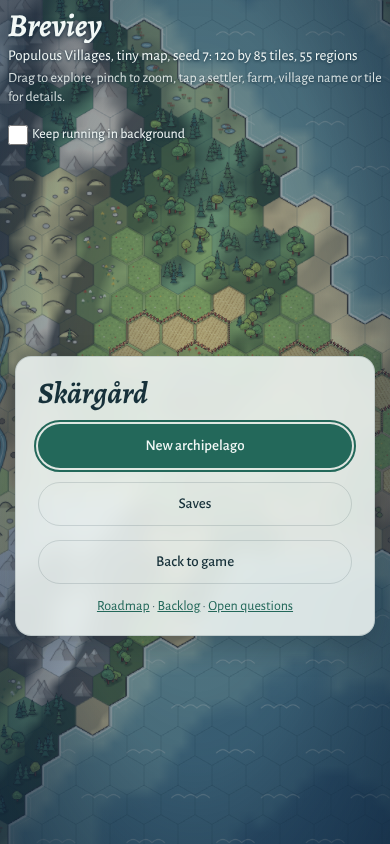
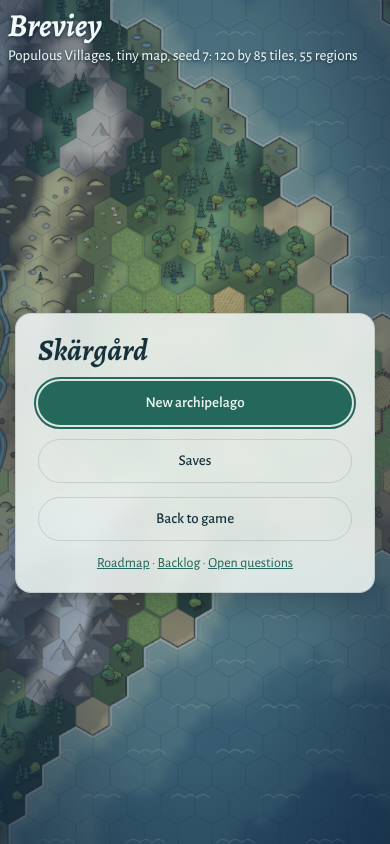
VB-324: no controls hint and no Keep running in background (for now); the task done
- The main menu's game info is the name and the map line only.
- page/speed keeps the background run behind keepRunning, off, with no control; the run pauses on blur and when hidden, as by default.
- tests/speed.js sets the flag; tests/browser-speed.js keeps the pause on blur and the resume on focus. Main menu screenshots retaken.

Claude-Session: https://claude.ai/code/session_01UXXp2ZG5DNGF4P7VZa17MU

diff --git a/index.html b/index.html
@@ -79,8 +79,6 @@ body {
 .clock .icon-btn { width: 44px; height: 44px; flex: none; }
 .ico { display: block; flex: none; }
 .ui-toggle, .ui-toggle[aria-pressed] { color: var(--ink); }
-.background-run { flex-basis: 100%; display: flex; align-items: center; gap: 6px; color: var(--muted); font-size: 13px; cursor: pointer; }
-.background-run input { margin: 0; accent-color: var(--accent); }
 #skipBtn { padding: 5px 10px; font-size: 14px; }
 #skipBtn[aria-pressed="true"], .speed button[aria-pressed="true"] { background: var(--accent); color: var(--on-accent); border-color: transparent; }
 .settlers { margin-top: 12px; max-height: min(50vh, 440px); overflow-y: auto; border-top: 1px solid var(--edge); padding: 2px 4px 0 0; }
@@ -188,7 +186,7 @@ body:has(.genscreen:not([hidden])) .lod, body:has(.genscreen:not([hidden])) .toa
 body:has(.genscreen:not([hidden])) #menuBtn, body:has(.genscreen:not([hidden])) #uiToggle { visibility: hidden; pointer-events: none; }
 .genscreen[hidden] { display: none; }
 /* the open game's name, at the main menu's top left (VB-324); it is not shown in play */
-/* The open game at the main menu's top left (VB-324): its name, its map, the controls and the background run; none of it is shown in play.
+/* The open game at the main menu's top left (VB-324): its name and its map; neither is shown in play.
    On a narrow screen it stands above the menu's card. */
 .game-info { position: absolute; top: max(14px, env(safe-area-inset-top, 0px)); left: max(18px, env(safe-area-inset-left, 0px));
   width: min(360px, calc(50% - 210px)); color: #f2f8f6; text-shadow: 0 1px 3px #102b3b; }
@@ -196,8 +194,6 @@ body:has(.genscreen:not([hidden])) #menuBtn, body:has(.genscreen:not([hidden])) 
 .game-name { overflow: hidden; text-overflow: ellipsis; white-space: nowrap; font: italic 700 32px/1.1 'Alegreya', Georgia, serif;
   text-shadow: 0 1px 4px #102b3b; }
 .game-info .meta { font-size: 15px; }
-.game-info .hint { font-size: 14px; line-height: 1.35; opacity: 0.85; }
-.game-info .background-run { display: flex; color: inherit; margin: 6px 0 0; } /* over the menu screens' grid of label and field */
 @media (max-width: 760px) {
   #landing:has(.game-info:not([hidden])) { grid-template-rows: auto 1fr; }
   .game-info { position: static; width: auto; justify-self: stretch; }
@@ -248,8 +244,7 @@ summary:focus-visible { outline: 2px solid var(--accent); outline-offset: 2px; }
 input, select { font: inherit; color: var(--ink); }
 .hud.top { justify-content: flex-end; }
 .menu-label { font-size: 12px; text-transform: uppercase; letter-spacing: .09em; color: var(--muted); margin: 14px 0 6px; }
-.background-run { margin: 8px 0 12px; min-height: 44px; font-size: 14px; }
-.background-run input, .dchk input { width: 20px; height: 20px; flex-shrink: 0; }
+.dchk input { width: 20px; height: 20px; flex-shrink: 0; }
 .clock { max-width: 700px; } /* one row with Skip and Main menu (VB-324) */
 .navigation { position: fixed; z-index: 7; left: 50%; transform: translateX(-50%); bottom: var(--dock-bottom); display: flex; gap: 4px;
   padding: 5px; border-radius: 18px; }
@@ -432,7 +427,6 @@ button.name { display: inline; min-height: 0; padding: 0; border: 0; border-radi
 @media (min-width: 1025px) {
   .mobile-only { display: none !important; } /* over a display a later rule gives, such as .icon-btn's */
   .menu-label { margin: 10px 0 5px; }
-  .background-run { min-height: 30px; margin: 4px 0 8px; }
 }
 .household-block > summary .summary-meta, .village-block > summary .summary-meta { margin-left: 52px; }
 @media (hover: hover) and (pointer: fine) {
@@ -643,8 +637,6 @@ button.name { display: inline; min-height: 0; padding: 0; border: 0; border-radi
   <div class="game-info" id="gameInfo" hidden>
     <p class="game-name" id="name"></p>
     <p class="meta" id="meta"></p>
-    <p class="hint" id="hint"></p>
-    <label class="background-run"><input id="backgroundRun" type="checkbox"> Keep running in background</label>
   </div>
   <div class="panel landing">
     <h1>Skärgård</h1>
@@ -11825,8 +11817,6 @@ if (typeof module !== 'undefined') module.exports = Sim;
   const frame = () => new Promise((r) => requestAnimationFrame(() => r()));
   const makeCanvas = (w, h) => { const c = document.createElement('canvas'); c.width = w; c.height = h; return c; };
 
-  $('hint').textContent = coarse ? 'Drag to explore, pinch to zoom, tap a settler, farm, village name or tile for details.' :
-    'Drag to explore, scroll to zoom. Point for a glance, click to keep it open. Keys: P people, T family, C customs, F centre, Space pause, Esc main menu.';
 
   function failed(msg) {
     const p = $('loadText'); p.textContent = msg; p.classList.add('err');
@@ -13827,7 +13817,9 @@ if (typeof module !== 'undefined') module.exports = Sim;
   }
   const SIM_BUDGET_MS = 12, SIM_SLICE_HOURS = 0.1;
   const uncappedButton = document.querySelector('[data-speed="Infinity"]');
-  const backgroundRun = $('backgroundRun');
+  // Keep running in background (VB-084) is off and has no control for now (11 Nov, VB-324); a control would set keepRunning and call
+  // syncBackgroundRun. While it is off, the run pauses when the page is hidden or the window loses focus.
+  let keepRunning = false;
   let windowFocused = document.hasFocus(), backgroundTimer = null, backgroundAt = 0;
   let speedSampleAt = 0, speedSampleHours = 0;
   // A skip to the next event (VB-234, page/play): where it began (Sim.skipFrom), or null; page state, never saved.
@@ -13904,7 +13896,7 @@ if (typeof module !== 'undefined') module.exports = Sim;
   function syncBackgroundRun() {
     if (backgroundTimer !== null) { clearInterval(backgroundTimer); backgroundTimer = null; }
     resetSpeedSample();
-    if (!simulationAway() || !backgroundRun.checked) return;
+    if (!simulationAway() || !keepRunning) return;
     backgroundAt = performance.now();
     // Browsers may throttle hidden timers. Advance only a bounded interval, never a backlog on return.
     backgroundTimer = setInterval(() => {
@@ -13914,7 +13906,6 @@ if (typeof module !== 'undefined') module.exports = Sim;
       if (st) updateClock();
     }, 100);
   }
-  backgroundRun.addEventListener('change', syncBackgroundRun);
   document.addEventListener('visibilitychange', syncBackgroundRun);
   window.addEventListener('focus', () => { windowFocused = true; syncBackgroundRun(); });
   window.addEventListener('blur', () => { windowFocused = false; syncBackgroundRun(); });
@@ -15672,7 +15663,7 @@ if (typeof module !== 'undefined') module.exports = Sim;
   // A page save is {build, savedAt, label, save: Sim.save(st)}, as gzipped JSON. An archipelago (scenario, seed and size) has four slots:
   // `auto`, written when the page is hidden, and 1 to 3, written by hand; a slot is overwritten in place and no older save is kept.
   // The database keeps each slot's line (`saves`) apart from its bytes (`blobs`), so a list never reads the bytes.
-  const BUILD = '775e74bf8a', SAVE_SLOTS = ['auto', '1', '2', '3'];
+  const BUILD = '0a38873989', SAVE_SLOTS = ['auto', '1', '2', '3'];
   const archOf = (s) => `${s.scenario}-${s.w.seed}-${s.w.COLS}x${s.w.ROWS}`;
   const sizeKey = (cols, rows) => Object.keys(SIZES).find((k) => SIZES[k][0] === cols && SIZES[k][1] === rows);
   const SIZE_NAMES = { t: 'tiny', s: 'small', m: 'medium', l: 'large' };

diff --git a/src/head.html b/src/head.html
@@ -79,8 +79,6 @@ body {
 .clock .icon-btn { width: 44px; height: 44px; flex: none; }
 .ico { display: block; flex: none; }
 .ui-toggle, .ui-toggle[aria-pressed] { color: var(--ink); }
-.background-run { flex-basis: 100%; display: flex; align-items: center; gap: 6px; color: var(--muted); font-size: 13px; cursor: pointer; }
-.background-run input { margin: 0; accent-color: var(--accent); }
 #skipBtn { padding: 5px 10px; font-size: 14px; }
 #skipBtn[aria-pressed="true"], .speed button[aria-pressed="true"] { background: var(--accent); color: var(--on-accent); border-color: transparent; }
 .settlers { margin-top: 12px; max-height: min(50vh, 440px); overflow-y: auto; border-top: 1px solid var(--edge); padding: 2px 4px 0 0; }
@@ -188,7 +186,7 @@ body:has(.genscreen:not([hidden])) .lod, body:has(.genscreen:not([hidden])) .toa
 body:has(.genscreen:not([hidden])) #menuBtn, body:has(.genscreen:not([hidden])) #uiToggle { visibility: hidden; pointer-events: none; }
 .genscreen[hidden] { display: none; }
 /* the open game's name, at the main menu's top left (VB-324); it is not shown in play */
-/* The open game at the main menu's top left (VB-324): its name, its map, the controls and the background run; none of it is shown in play.
+/* The open game at the main menu's top left (VB-324): its name and its map; neither is shown in play.
    On a narrow screen it stands above the menu's card. */
 .game-info { position: absolute; top: max(14px, env(safe-area-inset-top, 0px)); left: max(18px, env(safe-area-inset-left, 0px));
   width: min(360px, calc(50% - 210px)); color: #f2f8f6; text-shadow: 0 1px 3px #102b3b; }
@@ -196,8 +194,6 @@ body:has(.genscreen:not([hidden])) #menuBtn, body:has(.genscreen:not([hidden])) 
 .game-name { overflow: hidden; text-overflow: ellipsis; white-space: nowrap; font: italic 700 32px/1.1 'Alegreya', Georgia, serif;
   text-shadow: 0 1px 4px #102b3b; }
 .game-info .meta { font-size: 15px; }
-.game-info .hint { font-size: 14px; line-height: 1.35; opacity: 0.85; }
-.game-info .background-run { display: flex; color: inherit; margin: 6px 0 0; } /* over the menu screens' grid of label and field */
 @media (max-width: 760px) {
   #landing:has(.game-info:not([hidden])) { grid-template-rows: auto 1fr; }
   .game-info { position: static; width: auto; justify-self: stretch; }
@@ -248,8 +244,7 @@ summary:focus-visible { outline: 2px solid var(--accent); outline-offset: 2px; }
 input, select { font: inherit; color: var(--ink); }
 .hud.top { justify-content: flex-end; }
 .menu-label { font-size: 12px; text-transform: uppercase; letter-spacing: .09em; color: var(--muted); margin: 14px 0 6px; }
-.background-run { margin: 8px 0 12px; min-height: 44px; font-size: 14px; }
-.background-run input, .dchk input { width: 20px; height: 20px; flex-shrink: 0; }
+.dchk input { width: 20px; height: 20px; flex-shrink: 0; }
 .clock { max-width: 700px; } /* one row with Skip and Main menu (VB-324) */
 .navigation { position: fixed; z-index: 7; left: 50%; transform: translateX(-50%); bottom: var(--dock-bottom); display: flex; gap: 4px;
   padding: 5px; border-radius: 18px; }
@@ -432,7 +427,6 @@ button.name { display: inline; min-height: 0; padding: 0; border: 0; border-radi
 @media (min-width: 1025px) {
   .mobile-only { display: none !important; } /* over a display a later rule gives, such as .icon-btn's */
   .menu-label { margin: 10px 0 5px; }
-  .background-run { min-height: 30px; margin: 4px 0 8px; }
 }
 .household-block > summary .summary-meta, .village-block > summary .summary-meta { margin-left: 52px; }
 @media (hover: hover) and (pointer: fine) {

diff --git a/tests/speed.js b/tests/speed.js
@@ -3,13 +3,12 @@ const assert = require('assert'), fs = require('fs'), vm = require('vm'), path =
 const listeners = {}, timers = new Map();
 const listen = (target) => (event, fn) => { listeners[target + ':' + event] = fn; };
 const button = { title: '', label: '', setAttribute(k, v) { if (k === 'aria-label') this.label = v; } };
-const checkbox = { checked: false, addEventListener: listen('checkbox') };
 const screen = { hidden: true };
 let now = 0, calls = 0, clocks = 0, cost = 3, nextTimer = 0;
 const ctx = {
   document: { hidden: false, hasFocus: () => true, querySelector: () => button, addEventListener: listen('document') },
   window: { addEventListener: listen('window') }, performance: { now: () => now },
-  $: (id) => id === 'backgroundRun' ? checkbox : screen,
+  $: () => screen,
   st: { t: 6, agents: [] }, speed: 1, building: false, skipping: false, HOUR_SECONDS: 2, demo: false, DEMO: { speed: 3 }, reduceMotion: false,
   // whole 6-minute steps only (VB-244): the page keeps the part of a step its frames have asked for
   Sim: { advance(st, hours) { assert.strictEqual(hours, 0.1, 'the page asks for whole steps, one at a time'); calls++; st.t += hours; now += cost; } },
@@ -43,7 +42,8 @@ for (const flag of ['building', 'skipping']) {
 screen.hidden = false; const t = ctx.st.t; ctx.advanceSimulation(1); assert.strictEqual(ctx.st.t, t); screen.hidden = true;
 const state = ctx.st; ctx.st = null; ctx.advanceSimulation(1); ctx.st = state;
 listeners['window:blur'](); assert(vm.runInContext('simulationAway()', ctx)); assert.strictEqual(timers.size, 0, 'background is opt in');
-checkbox.checked = true; listeners['checkbox:change'](); assert.strictEqual(timers.size, 1);
+// the background run has no control for now (VB-324): the flag a control would set
+vm.runInContext('keepRunning = true; syncBackgroundRun()', ctx); assert.strictEqual(timers.size, 1);
 for (let i = 0; i < 3; i++) { listeners['window:blur'](); listeners['document:visibilitychange'](); }
 assert.strictEqual(timers.size, 1, 'repeated focus/visibility notifications never stack timers');
 ctx.speed = 30; const t0 = ctx.st.t + share() * 0.1; tick(); assert(Math.abs(ctx.st.t + share() * 0.1 - t0 - 1.5) < 1e-9); assert(clocks > 0);
@@ -55,7 +55,7 @@ ctx.speed = Infinity; const hidden = ctx.st.t; tick(); assert(ctx.st.t > hidden,
 listeners['window:focus'](); assert.strictEqual(timers.size, 1, 'hidden document still uses the background driver');
 ctx.document.hidden = false; listeners['document:visibilitychange'](); assert.strictEqual(timers.size, 0);
 listeners['window:blur'](); assert.strictEqual(timers.size, 1);
-checkbox.checked = false; listeners['checkbox:change'](); assert.strictEqual(timers.size, 0);
+vm.runInContext('keepRunning = false; syncBackgroundRun()', ctx); assert.strictEqual(timers.size, 0);
 // Load the actual input script too: browser shortcuts and text editing must not select a speed.
 const keyHandlers = {}, controls = { hidden: true, addEventListener() {} }, elements = new Map();
 const control = (id) => {

diff --git a/tests/browser-speed.js b/tests/browser-speed.js
@@ -76,7 +76,6 @@ assert(html.includes('window.__speedTest'), 'page hook exists');
       await page.click('[data-speed="0"]');
     }
     assert(positionsChecked > 0, 'the picture check covers visible pawns');
-    assert.strictEqual(await page.isChecked('#backgroundRun'), false);
     await page.locator('body').click({ position: { x: 700, y: 650 } });
     await page.keyboard.press('5'); assert.strictEqual(await page.evaluate(() => window.__speedTest.speed === Infinity), true);
     await page.keyboard.press('Space'); assert.strictEqual(await page.evaluate(() => window.__speedTest.speed), 0);
@@ -87,22 +86,11 @@ assert(html.includes('window.__speedTest'), 'page hook exists');
       await page.evaluate((modifier) => window.dispatchEvent(new KeyboardEvent('keydown', { key: '4', [modifier]: true })), modifier);
       assert.strictEqual(await page.evaluate(() => window.__speedTest.speed), 0, 'modified keys belong to the browser');
     }
-    // Keep running in background is the main menu's (VB-324), which holds the game while it is up: Main menu, the box, Back to game
-    const background = async (on) => { await page.click('#menuBtn'); await page[on ? 'check' : 'uncheck']('#backgroundRun'); await page.click('#landBack'); };
-    await page.click('#menuBtn');
-    await page.focus('#backgroundRun'); await page.keyboard.press('Space');
-    assert.strictEqual(await page.isChecked('#backgroundRun'), true);
-    assert.strictEqual(await page.evaluate(() => window.__speedTest.speed), 0, 'checkbox space does not resume the game');
-    await page.uncheck('#backgroundRun'); await page.click('#landBack'); await page.click('[data-speed="30"]');
+    // the background run has no control for now (VB-324): blur pauses the run, and focus resumes it
+    await page.click('[data-speed="30"]');
     await page.evaluate(() => window.dispatchEvent(new Event('blur')));
-    const t = await page.evaluate(() => window.__speedTest.st.t); await page.waitForTimeout(350);
-    assert.strictEqual(await page.evaluate(() => window.__speedTest.st.t), t, 'blur pauses by default');
-    await background(true);
-    await page.waitForFunction((t) => window.__speedTest.st.t > t, t);
-    await page.click('[data-speed="0"]'); const paused = await page.evaluate(() => window.__speedTest.st.t);
-    await page.waitForTimeout(250); assert.strictEqual(await page.evaluate(() => window.__speedTest.st.t), paused);
-    await background(false); await page.click('[data-speed="30"]');
-    const returning = await page.evaluate(() => window.__speedTest.st.t);
+    const returning = await page.evaluate(() => window.__speedTest.st.t); await page.waitForTimeout(350);
+    assert.strictEqual(await page.evaluate(() => window.__speedTest.st.t), returning, 'blur pauses the run');
     await page.evaluate(() => window.dispatchEvent(new Event('focus')));
     await page.waitForFunction((t) => window.__speedTest.st.t > t, returning);
     await page.click('[data-speed="Infinity"]'); await page.waitForTimeout(700);

diff --git a/src/page/speed.js b/src/page/speed.js
@@ -1,7 +1,9 @@
-// @sys page/speed: simulation pacing, the uncapped frame budget and opt-in background progress
+// @sys page/speed: simulation pacing, the uncapped frame budget and background progress (off, with no control for now)
   const SIM_BUDGET_MS = 12, SIM_SLICE_HOURS = 0.1;
   const uncappedButton = document.querySelector('[data-speed="Infinity"]');
-  const backgroundRun = $('backgroundRun');
+  // Keep running in background (VB-084) is off and has no control for now (11 Nov, VB-324); a control would set keepRunning and call
+  // syncBackgroundRun. While it is off, the run pauses when the page is hidden or the window loses focus.
+  let keepRunning = false;
   let windowFocused = document.hasFocus(), backgroundTimer = null, backgroundAt = 0;
   let speedSampleAt = 0, speedSampleHours = 0;
   // A skip to the next event (VB-234, page/play): where it began (Sim.skipFrom), or null; page state, never saved.
@@ -78,7 +80,7 @@
   function syncBackgroundRun() {
     if (backgroundTimer !== null) { clearInterval(backgroundTimer); backgroundTimer = null; }
     resetSpeedSample();
-    if (!simulationAway() || !backgroundRun.checked) return;
+    if (!simulationAway() || !keepRunning) return;
     backgroundAt = performance.now();
     // Browsers may throttle hidden timers. Advance only a bounded interval, never a backlog on return.
     backgroundTimer = setInterval(() => {
@@ -88,7 +90,6 @@
       if (st) updateClock();
     }, 100);
   }
-  backgroundRun.addEventListener('change', syncBackgroundRun);
   document.addEventListener('visibilitychange', syncBackgroundRun);
   window.addEventListener('focus', () => { windowFocused = true; syncBackgroundRun(); });
   window.addEventListener('blur', () => { windowFocused = false; syncBackgroundRun(); });

diff --git a/src/page/setup.js b/src/page/setup.js
@@ -8,8 +8,6 @@
   const frame = () => new Promise((r) => requestAnimationFrame(() => r()));
   const makeCanvas = (w, h) => { const c = document.createElement('canvas'); c.width = w; c.height = h; return c; };
 
-  $('hint').textContent = coarse ? 'Drag to explore, pinch to zoom, tap a settler, farm, village name or tile for details.' :
-    'Drag to explore, scroll to zoom. Point for a glance, click to keep it open. Keys: P people, T family, C customs, F centre, Space pause, Esc main menu.';
 
   function failed(msg) {
     const p = $('loadText'); p.textContent = msg; p.classList.add('err');

diff --git a/src/body.html b/src/body.html
@@ -155,8 +155,6 @@
   <div class="game-info" id="gameInfo" hidden>
     <p class="game-name" id="name"></p>
     <p class="meta" id="meta"></p>
-    <p class="hint" id="hint"></p>
-    <label class="background-run"><input id="backgroundRun" type="checkbox"> Keep running in background</label>
   </div>
   <div class="panel landing">
     <h1>Skärgård</h1>

diff --git a/backlog/VB-324.md b/backlog/VB-324.md
@@ -1,5 +1,5 @@
 # VB-324: The game screen on phones: no title in play, icons for the controls, the speed picker over the notifications
-Status: ready
+Status: done (2026-11-11)
 Priority: 2
 Size: M
 Design ref: Interface; VB-098 (notifications), VB-084 (speeds), VB-307 (menu screens)
@@ -21,7 +21,7 @@ Acceptance criteria:
 - [x] Batch 4 (supersedes batch 3's menu panel). Main menu is the top bar's last button, in the top-right corner, and opens the main menu
       (put away with the bar while it shows); the menu panel is gone: Debug is in the dock; grid, regions, land, a bell for which
       notifications show and the minimap's toggle (at the right end) are a bar under the minimap, and shut, the toggle alone stays; the
-      minimap's Close is gone; the game's name, map, controls and background run stand under the name on the main menu.
+      minimap's Close is gone; the game's name and map stand at the main menu's top left (batch 5: no controls hint, no background run).
 - [x] Batch 4. The dock's panels rise centred over the dock on a wide screen (the selection card keeps the bottom left); the notifications
       stand at the top centre, just under the top bar, on every screen.
 - [x] Screenshots before and after, phone (390×844, and landscape) and desktop (1440×900), in `docs/img/vb-324-*` (png for the phone, jpg for the desktop).
@@ -111,3 +111,9 @@ Notes:
   `vb-324-after-phone-maptools.png` and `vb-324-after-desktop-maptools.jpg` show the bar with the bell's list open.
 - Validation, batch 4: `npm test` 101 scripts pass; `npm run verify` 117 scripts pass (golden file unchanged), the same 11 simulation
   cost targets out, none moved.
+- Batch 5 (11 Nov, asked in the session: remove the control hints, and Keep running in background for now). `#hint` and its text in
+  `page/setup` are gone, and `#backgroundRun` with its CSS. `page/speed` keeps the background run's logic (VB-084) behind `keepRunning`,
+  false, which a control would set and then call `syncBackgroundRun`; while it is off the run pauses when the page is hidden or the window
+  loses focus, as it did by default. `tests/speed.js` sets the flag where it ticked a mock checkbox; `tests/browser-speed.js` keeps the
+  pause on blur and the resume on focus. The main menu's screenshots taken again. `npm test` 101 and `npm run verify` 117 scripts pass,
+  the same 11 simulation cost targets out.

diff --git a/BACKLOG.md b/BACKLOG.md
@@ -15,7 +15,6 @@ The order tasks are taken in, the first first (`node tools/backlog.js next`). So
 | [VB-136](backlog/VB-136.md) | Herding and grazing pressure | year | 2 | M | A herder takes the herds to pasture; grazing pressure and cattle lanes; unherded herds in the crops. |
 | [VB-257](backlog/VB-257.md) | The meeting sets the village's routines, and a practice for when it does not | year | 2 | M | The yearly meeting chooses at most four routines from the village work available; the fence is the first; a practice says what follows no decision. |
 | [VB-266](backlog/VB-266.md) | Checks back on pull requests, hard checks only | - | 2 | S | The Checks workflow runs on pull requests again and fails only on the hard checks; targets out are printed in the job summary; the late-game job reports and never fails. |
-| [VB-324](backlog/VB-324.md) | The game screen on phones: no title in play, icons for the controls, the speed picker over the notifications | - | 2 | M | Kim, 11 Nov: on a phone the title, the Hide UI button and the speed picker (under the notifications) are badly placed; icons rather than text |
 | [VB-045](backlog/VB-045.md) | Overlay cached per map chunk | debt | 3 | S | Draw the Land overlay per map chunk and redraw only the chunks of st.landDirty. |
 | [VB-055](backlog/VB-055.md) | TypeScript: real modules, typed state, a formatter and measures of width: survey and tasks | yardstick | 3 | S | The checker sees little through VB[...]; plan the move to modules and TypeScript in three steps, with a formatter, and caps on exports and function length in place of the 400-line cap. |
 | [VB-106](backlog/VB-106.md) | Neighbours help with each other's work, and it builds ties | year | 3 | M | Idle adults may take a waiting field job of another household in their village; help raises tie and opinion. |

diff --git a/BACKLOG_ARCHIVE.md b/BACKLOG_ARCHIVE.md
@@ -250,3 +250,4 @@ Done tasks and closed archs, moved out of `BACKLOG.md` so its tables list only o
 | [VB-220](backlog/VB-220.md) | Goodwill acts: gratitude, an old debt, and allowance's goodwill term | fair | 3 | S | Switch on the curves of The gift (the debtor's gratitude, the creditor's souring) and allowance's goodwill term; golden re-recorded; help and hunger numbers before and after. |
 | [VB-306](backlog/VB-306.md) | A well-kept house gives prestige, up to a cap; tar helps | fair | 3 | S | - | A house has a condition that upkeep raises and time wears; its holder's prestige follows it up to a cap; a tarred house has a slightly higher cap and decays more slowly. |
 | [VB-307](backlog/VB-307.md) | The menu screens as one family, on a live showcase island | - | 2 | M | Main menu, New archipelago and Saves share one card; the docs links move to the main menu; a tiny live island plays behind them |
+| [VB-324](backlog/VB-324.md) | The game screen on phones: no title in play, icons for the controls, the speed picker over the notifications | - | 2 | M | Kim, 11 Nov: on a phone the title, the Hide UI button and the speed picker (under the notifications) are badly placed; icons rather than text |
